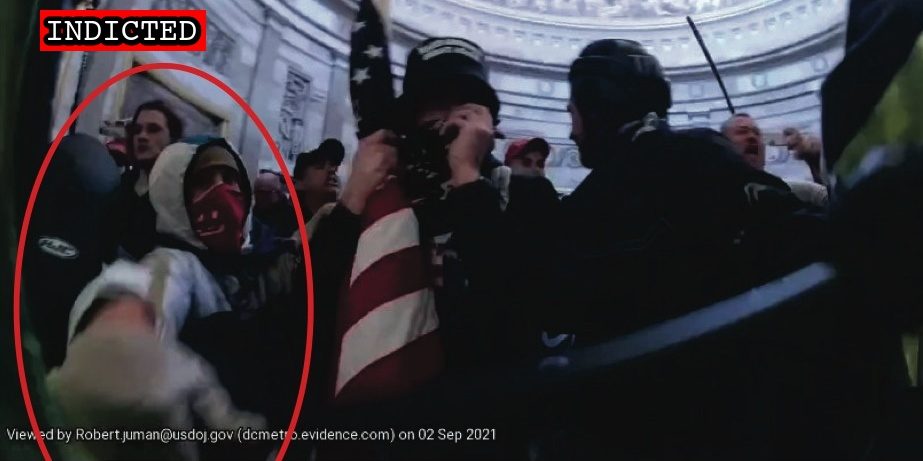
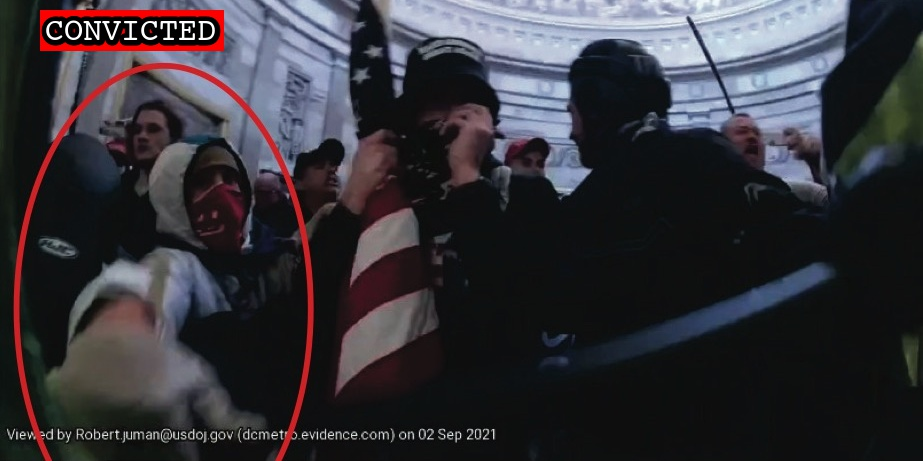
Latest schedule plus convictions

Changed region(s): [[0.0303, 0.0, 0.2427, 0.1215]]

diff --git a/docs/_suspects/louis-valentin.md b/docs/_suspects/louis-valentin.md
@@ -4,11 +4,11 @@ lastName: Valentin
 hashtag:
 aka:
 residence: Florida
-status: Indicted
+status: Convicted
 date: 2021-10-27
 charged: 2021-10-27
 indicted: 2021-12-01
-convicted:
+convicted: 2023-02-16
 acquitted:
 sentenced:
 dismissed:
@@ -17,7 +17,7 @@ plea_hearing: 2023-02-16
 trial_date:
 trial_type:
 jury_selection:
-sentencing:
+sentencing: 2023-05-22
 status_conference:
 age:
 occupation:
@@ -32,7 +32,7 @@ raid:
 perpwalk:
 quote:
 title: Louis Valentin charged on October 27, 2021
-description: Click for latest case details. Suspects innocent until proven guilty.
+description: Convicted on February 16, 2023. Click for latest case details.
 author: seditiontrack
 layout: suspect
 published: true
@@ -41,8 +41,14 @@ caseName: USA v. VALENTIN
 judge: James E. Boasberg
 videos:
 charges:
+- code: 40 USC § 5104(e)(2)(G)
+  title: Parading, demonstrating or picketing in a Capitol building
+  url: https://www.law.cornell.edu/uscode/text/40/5104
+  felony: false
 sentence:
 ---
 - [News Report](https://bipartisanreport.com/2021/11/12/florida-insurrectionist-who-assaulted-police-caught-charged-by-feds/)
 - [Statement of Facts](https://www.justice.gov/usao-dc/case-multi-defendant/file/1458906/download)
 - [Indictment](https://www.justice.gov/usao-dc/case-multi-defendant/file/1458911/download)
+- [Plea Agreement](https://storage.courtlistener.com/recap/gov.uscourts.dcd.238121/gov.uscourts.dcd.238121.42.0.pdf)
+- [Statement of Offense](https://storage.courtlistener.com/recap/gov.uscourts.dcd.238121/gov.uscourts.dcd.238121.43.0.pdf)

diff --git a/docs/_suspects/julio-baquero.md b/docs/_suspects/julio-baquero.md
@@ -4,11 +4,11 @@ lastName: Baquero
 hashtag:
 aka:
 residence: Florida
-status: Indicted
+status: Convicted
 date: 2021-10-27
 charged: 2021-10-27
 indicted: 2021-12-01
-convicted:
+convicted: 2023-02-16
 acquitted:
 sentenced:
 dismissed:
@@ -17,7 +17,7 @@ plea_hearing: 2023-02-16
 trial_date:
 trial_type:
 jury_selection:
-sentencing:
+sentencing: 2023-05-22
 status_conference:
 age:
 occupation:
@@ -32,7 +32,7 @@ raid:
 perpwalk:
 quote:
 title: Julio Baquero charged on October 27, 2021
-description: Click for latest case details. Suspects innocent until proven guilty.
+description: Convicted on February 16, 2023. Click for latest case details.
 author: seditiontrack
 layout: suspect
 published: true
@@ -41,8 +41,15 @@ caseName: USA v. BAQUERO
 judge: James E. Boasberg
 videos:
 charges:
+  - code: 18 USC § 231(a)(3)
+    title: Obstruction of Law Enforcement During Civil Disorder
+    url: https://www.law.cornell.edu/uscode/text/18/231
+    felony: true
 sentence:
 ---
+
 - [News Report](https://bipartisanreport.com/2021/11/12/florida-insurrectionist-who-assaulted-police-caught-charged-by-feds/)
 - [Statement of Facts](https://www.justice.gov/usao-dc/case-multi-defendant/file/1458906/download)
 - [Indictment](https://www.justice.gov/usao-dc/case-multi-defendant/file/1458911/download)
+- [Plea Agreement](https://storage.courtlistener.com/recap/gov.uscourts.dcd.238121/gov.uscourts.dcd.238121.40.0.pdf)
+- [Statement of Offense](https://storage.courtlistener.com/recap/gov.uscourts.dcd.238121/gov.uscourts.dcd.238121.41.0.pdf)

diff --git a/docs/_suspects/daniel-scott.md b/docs/_suspects/daniel-scott.md
@@ -41,17 +41,16 @@ caseName: USA v. SCOTT
 judge: Royce C. Lamberth
 videos:
 charges:
-  - code: 18 USC § 1512(c)(2),2
-    title: Obstruction of an Official Proceeding (Aiding and Abetting)
-    url: https://www.law.cornell.edu/uscode/text/18/1512
-    felony: true
-  - code: 18 USC § 111(a)(1)
-    title: Assaulting, resisting, or impeding certain officers or employees
-    url: https://www.law.cornell.edu/uscode/text/18/111
-    felony: true
+- code: 18 USC § 1512(c)(2),2
+  title: Obstruction of an Official Proceeding (Aiding and Abetting)
+  url: https://www.law.cornell.edu/uscode/text/18/1512
+  felony: true
+- code: 18 USC § 111(a)(1)
+  title: Assaulting, resisting, or impeding certain officers or employees
+  url: https://www.law.cornell.edu/uscode/text/18/111
+  felony: true
 sentence:
 ---
-
 - [News Report](https://www.washingtonpost.com/local/legal-issues/proudboy-screaming-lets-take-capitol-arrested/2021/05/20/ccae5e00-b9a7-11eb-a6b1-81296da0339b_story.html)
 - [Statement of Facts](https://www.justice.gov/usao-dc/case-multi-defendant/file/1395876/download)
 - [Indictment](https://extremism.gwu.edu/sites/g/files/zaxdzs2191/f/Daniel%20Lyons%20Scott%20Indictment.pdf)

diff --git a/docs/_suspects/michael-riley.md b/docs/_suspects/michael-riley.md
@@ -41,12 +41,11 @@ caseName: USA v. RILEY
 judge: Amy B. Jackson
 videos:
 charges:
-  - code: 18 USC § 1512(c)(1)
-    title: Tampering with Documents or Proceedings
-    url: https://www.law.cornell.edu/uscode/text/18/1512
-    felony: true
+- code: 18 USC § 1512(c)(1)
+  title: Tampering with Documents or Proceedings
+  url: https://www.law.cornell.edu/uscode/text/18/1512
+  felony: true
 sentence:
 ---
-
 - [News Report](https://www.nbcnews.com/politics/politics-news/capitol-police-officer-charged-helping-hide-jan-6-rioter-s-n1281654)
 - [Indictment](https://s3.documentcloud.org/documents/21085728/10-14-21-us-v-michael-riley-indictment.pdf)

diff --git a/docs/_suspects/barry-ramey.md b/docs/_suspects/barry-ramey.md
@@ -43,7 +43,6 @@ videos:
 charges:
 sentence:
 ---
-
 - [News Report](https://www.nbcnews.com/politics/justice-department/fbi-says-proud-boy-tried-derail-jan-6-investigating-menacing-agent-rcna25418)
 - [Statement of Facts](https://www.justice.gov/usao-dc/case-multi-defendant/file/1496006/download)
 - [Indictment](https://storage.courtlistener.com/recap/gov.uscourts.dcd.243752/gov.uscourts.dcd.243752.6.0.pdf)

diff --git a/docs/_suspects/ryan-kelley.md b/docs/_suspects/ryan-kelley.md
@@ -14,11 +14,11 @@ sentenced:
 dismissed:
 deceased:
 plea_hearing:
-trial_date:
-trial_type:
+trial_date: 2023-07-31
+trial_type: Jury Trial
 jury_selection:
 sentencing:
-status_conference: 2023-02-15
+status_conference: 2023-04-27
 age:
 occupation:
 affiliations:

diff --git a/docs/_suspects/josiah-hueso.md b/docs/_suspects/josiah-hueso.md
@@ -13,12 +13,12 @@ acquitted:
 sentenced:
 dismissed:
 deceased:
-plea_hearing:
+plea_hearing: 2023-03-14
 trial_date:
 trial_type:
 jury_selection:
 sentencing:
-status_conference: 2023-02-15
+status_conference:
 age:
 occupation:
 affiliations:

diff --git a/docs/_suspects/johnny-harris.md b/docs/_suspects/johnny-harris.md
@@ -13,9 +13,9 @@ acquitted:
 sentenced:
 dismissed:
 deceased:
-plea_hearing:
-trial_date: 2023-02-27
-trial_type: Bench Trial
+plea_hearing: 2023-02-22
+trial_date:
+trial_type:
 jury_selection: 2023-02-27
 sentencing:
 status_conference:

diff --git a/docs/_suspects/troy-weeks.md b/docs/_suspects/troy-weeks.md
@@ -38,7 +38,7 @@ layout: suspect
 published: true
 caseNumber: 23-cr-0035
 caseName: USA v. WEEKS
-judge: G. M. Harvey
+judge: Rudolph Contreras
 videos:
 charges:
 sentence:

diff --git a/docs/_suspects/matthew-krol.md b/docs/_suspects/matthew-krol.md
@@ -18,7 +18,7 @@ trial_date:
 trial_type:
 jury_selection:
 sentencing:
-status_conference: 2023-02-15
+status_conference: 2023-03-20
 age: 63
 occupation:
 affiliations:

diff --git a/docs/_suspects/donald-hazard.md b/docs/_suspects/donald-hazard.md
@@ -17,7 +17,7 @@ plea_hearing: 2023-02-16
 trial_date:
 trial_type:
 jury_selection:
-sentencing:
+sentencing: 2023-05-19
 status_conference:
 age: 43
 occupation:

diff --git a/docs/_suspects/patrick-bournes.md b/docs/_suspects/patrick-bournes.md
@@ -18,7 +18,7 @@ trial_date:
 trial_type:
 jury_selection:
 sentencing:
-status_conference:
+status_conference: 2023-04-14
 age: 59
 occupation:
 affiliations:
